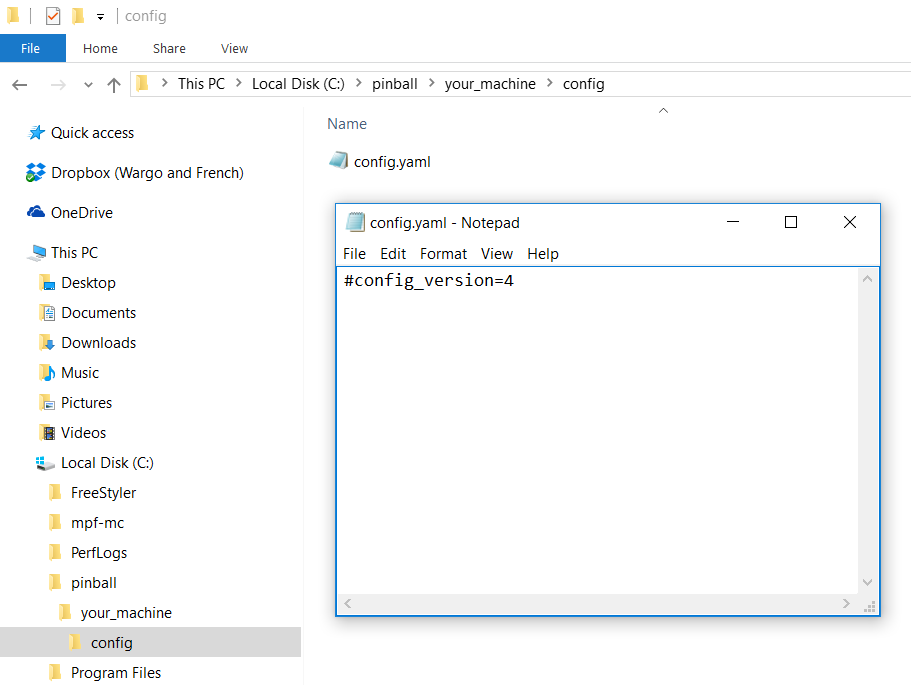
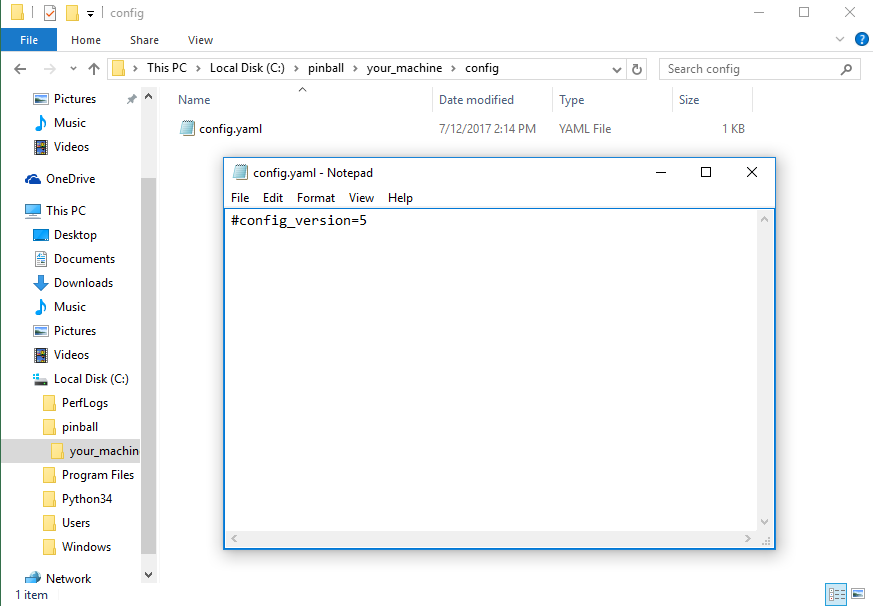
updated tutorial step 2

Changed region(s): [[0.0, 0.0, 1.0, 1.0], [0.9278, 0.9505, 0.9897, 1.0]]

diff --git a/tutorial/2_creating_a_new_machine.rst b/tutorial/2_creating_a_new_machine.rst
@@ -1,24 +1,28 @@
 Tutorial step 2: Create your machine folder
 ===========================================
 
-.. include:: /not_updated_yet.rst
-
 Okay, so MPF is installed and you're able to run *Demo Man*. Great!
 Now it's time to create the folders and files for your own game.
 
 1. Understand the "machine folder" concept
 ------------------------------------------
 
-In MPF, we use the term *machine folder* to describe the folder that contains all the
-configuration files, code, images, videos, sounds, audits, and
-everything else you need for a pinball machine.
-Machine folders are portable, so you can grab a machine folder from one
+In MPF, we use the term *machine folder* to describe the folder that
+contains all the files for your game. This includes config files,
+images, sounds, videos, settings, audits, modes, and everything else.
+
+The machine folder is organized into subfolders to keep everything straight.
+
+MPF machine folders are portable, meaning you can grab a machine folder from one
 computer and run it on another—-even if it's a different platform.
 (Windows to Linux, Mac to Windows, etc.)
 
-Note that we call these "machine" folders and not "game" folders because in MPF, a "game" is an
-actual game-in-progress running on a machine. So you're really creating a pinball machine
-config, not a pinball game config.
+.. note::
+
+   In "MPF speak", we call these "machine" folders, not "game" folders. The reason is
+   because in MPF, a "game" is an actual game-in-progress running on a machine (with players,
+   balls, scores, etc.). So you're really creating a pinball *machine* config, not a pinball
+   game config.
 
 2. Create your machine folders
 ------------------------------
@@ -27,18 +31,21 @@ Okay, so let's get started with your own game's machine folder. The
 first step is to create an empty folder somewhere. (Anywhere you want.)
 You can name this folder whatever you want too.
 
-Let's use the name "your_machine", and we'll assume you're on Windows,
-so you might put it in your ``C:\pinball`` folder, like this:
+Let's use the name "your_machine", and let's add that folder to the ``C:\pinball``
+folder, like this:
 
 .. code-block:: doscon
 
    C:\pinball\your_machine
 
+Obviously if you're on Mac or Linux, you won't have a C: drive, but that doesn't matter
+for the tutorial. Just create a new folder empty folder somewhere and name it whatever you
+want.
+
 Throughout this tutorial we'll refer to this as "your machine folder".
 
 Next create a subfolder in your new machine folder called ``/config``. This is where your machine
-configuration files will live. This folder should be inside your
-machine folder, like this:
+configuration files will live. This folder should be inside your machine folder, like this:
 
 .. code-block:: doscon
 
@@ -47,9 +54,9 @@ machine folder, like this:
 3. Create your machine config file
 ----------------------------------
 
-Now let's actually create your machine config file. To do that, create a file called ``config.yaml`` in your */config*
-folder. This will be your main config file which will ultimately be hundreds of lines long and which will contain all
-the config and settings for your machine. This file should be here:
+Now let's actually create a file which will contain all the configuration for your pinball
+machine. To do that, create a file called ``config.yaml`` in your machine folder's */config*
+sub-folder. This file should be here:
 
 .. code-block:: doscon
 
@@ -78,7 +85,7 @@ Be sure to enter this exactly as it's shown here, with no spaces around the equa
 This line tells MPF which version of the config spec you have. That way if a future version of MPF
 requires changes to a config file, it can automatically recognize older files and update them.
 
-The current version of the config files is ``4`` which is what’s used with MPF 0.30 and newer, so that’s what we’re adding
+The current version of the config files is ``5`` which is what’s used with MPF 0.50 and newer, so that’s what we’re adding
 here.
 
 At this point, your environment should look like this:
@@ -103,28 +110,32 @@ to a media controller for display and sound since we haven't set that up yet.)
 
 You should get results that look something like this:
 
-.. code-block:: doscon
+.. image:: images/fresh_mpf_running.png
 
-   C:\pinball\your_machine>mpf -b
-   INFO : Machine : Mission Pinball Framework Core Engine v0.30.0
-   INFO : Machine : Machine path: C:\pinball\your_machine
-   INFO : Machine : Loading cached config: C:\Users\BRIANM~1\AppData\Local\Temp\235c13dee169bec54dce4d06c2665fe9config
-   INFO : Machine : Starting clock at 30.0Hz
-   INFO : Mode.attract : Mode Starting. Priority: 10
+This is MPF's default display when it's running. Don't worry--this is not what your machine's player's will see when
+they play! :) We'll set that up later. This is more for you while you're building your MPF config.
 
-You might notice that it seems like the command is hung because you didn't get the command line back. Actually what's
-happening is MPF is running! Your machine is live and sitting in the attract mode!!
+Notice a few things on this console display:
 
-At this point since we are running a completely blank config, the only way to
-stop MPF is to hit :kbd:`CTRL+C` . When you do
-that, you should see a few more lines appear, like this:
+* The version of MPF that's running is in the red bar along the top.
+* Any game modes that are running are in the "ACTIVE MODES" section (which is just the attract mode for now since we
+  haven't set anything else up).
+* A list of switches and their states in in the middle "SWITCHES" section (which is also empty since we don't have
+  any switches setup yet).
+* A list showing which devices are holding balls is in the "BALL COUNTS" section (also blank).
+* The current player's number, score, and ball in the "CURRENT PLAYER" section (also blank).
+* The machine folder path (in yellow in the lower left corner)
+* How much CPU and memory MPF is using. (CPU is the percentage which is 0% in the screen shot which makes sense since
+  your config is blank and MPF isn't doing anything!) The memory use is the memory used (RSS), then a slash, then
+  the memory size (total that it could use). In the screen shot, we see MPF is using 4MB but could use as much as 22MB.
+* How long MPF has been running (hours:minutes:seconds) in green in the lower right
+* How much total free memory your computer has (530 MB in the screen shot)
+* How much total CPU is busy on your computer overall (also 0% in the screen shot)
 
-.. code-block:: doscon
+At this point you can pretty much just sit there and watch MPF forever, but it won't ever do anything until you add more
+to your config file.
 
-   INFO : Machine : Actual MPF loop rate: 32.04 Hz
-   INFO : root : MPF run loop ended.
-
-   C:\pinball\your_machine>
+To stop MPF, hit :kbd:`CTRL+C` . That should take you back to the command window.
 
 At this point you're all set! If your machine is working like this, go ahead and move on to the next step.
 However if you got something else on your display or some kind of error or crash, read on below...
@@ -139,20 +150,22 @@ If you get a crash with a message about a "Config file version mismatch", like t
 
 .. code-block:: doscon
 
+   C:\pinball\your_machine>mpf -b
+   Config file version mismatch: C:\pinball\your_machine\config\config.yaml
    Traceback (most recent call last):
-     File "z:\git\mpf\mpf\commands\game.py", line 130, in __init__
-       MachineController(mpf_path, machine_path, vars(args)).run()
-     File "z:\git\mpf\mpf\core\machine.py", line 98, in __init__
+     File "c:\python34\lib\site-packages\mpf\commands\game.py", line 202, in __init__
+       MachineController(mpf_path, machine_path, vars(self.args)).run()
+     File "c:\python34\lib\site-packages\mpf\core\machine.py", line 146, in __init__
        self._load_config()
-     File "z:\git\mpf\mpf\core\machine.py", line 290, in _load_config
+     File "c:\python34\lib\site-packages\mpf\core\machine.py", line 405, in _load_config
        self._load_config_from_files()
-     File "z:\git\mpf\mpf\core\machine.py", line 309, in _load_config_from_files
+     File "c:\python34\lib\site-packages\mpf\core\machine.py", line 425, in _load_config_from_files
        config_type='machine'))
-     File "z:\git\mpf\mpf\core\config_processor.py", line 99, in load_config_file
+     File "c:\python34\lib\site-packages\mpf\core\config_processor.py", line 24, in load_config_file
        config = FileManager.load(filename, verify_version, halt_on_error)
-     File "z:\git\mpf\mpf\core\file_manager.py", line 155, in load
-       round_trip)
-     File "z:\git\mpf\mpf\file_interfaces\yaml_interface.py", line 295, in load
+     File "c:\python34\lib\site-packages\mpf\core\file_manager.py", line 167, in load
+       halt_on_error)
+     File "c:\python34\lib\site-packages\mpf\file_interfaces\yaml_interface.py", line 255, in load
        raise ValueError("Config file version mismatch: {}".format(filename))
    ValueError: Config file version mismatch: C:\pinball\your_machine\config\config.yaml
 
@@ -176,9 +189,8 @@ up one level and try again.
    Error. Could not find machine folder: 'None'.
 
 Again, same thing here. The example above is in the root of C: which is not a valid machine folder. (It is possible to
-run a machine from another folder via command line options which is why this error says it couldn't find the machine "None"
-(since no command line options were passed), but for now just know that you need to run MPF from the root of your
-machine folder.
+run a machine from another folder via command line options which is why this error says it couldn't find the machine "None",
+but for now just know that you need to run MPF from the root of your machine folder.)
 
 It's possible you might also get an error about "mpf" not being recognized. For example, on Windows:
 
@@ -197,3 +209,11 @@ Or on Mac or Linux:
 
 In this case you probably don't have MPF installed right, so jump back to the installation part of the docs and
 follow that again.
+
+If you see a yellow bar and do not see the attract mode in the list of active modes, like this:
+
+.. image:: images/fresh_mpf_running_no_b.png
+
+That means you did not including the ``-b`` option when you ran MPF. (e.g. you probably just ran ``mpf`` instead of
+``mpf -b``. In this case, MPF is trying to connect to the media controller (for your game's graphics and sounds), but
+since we haven't gotten that far in the tutorial, it doesn't exist and therefore MPF won't be able to connect to it.

diff --git a/install/windows.rst b/install/windows.rst
@@ -135,10 +135,10 @@ and install it onto your computer.
 
 .. note::
 
-   Since MPF 0.50 is not yet released, the pip command you run has a ``--pre``
+   Since MPF 0.50 is not yet released, the pip command you run has a **--pre**
    at the end which tells it to get the latest "pre-release" version. Once MPF
-   0.50 is released, you won't need the ``--pre``. If you run pip without the
-   ``--pre`` now, you will get MPF 0.33, which is fine, but then you need to
+   0.50 is released, you won't need the **--pre**. If you run pip without the
+   **--pre** now, you will get MPF 0.33, which is fine, but then you need to
    read the 0.33 documentation, not this 0.50 documentation.
 
 Pip packages can include dependencies, which means that when you run this
